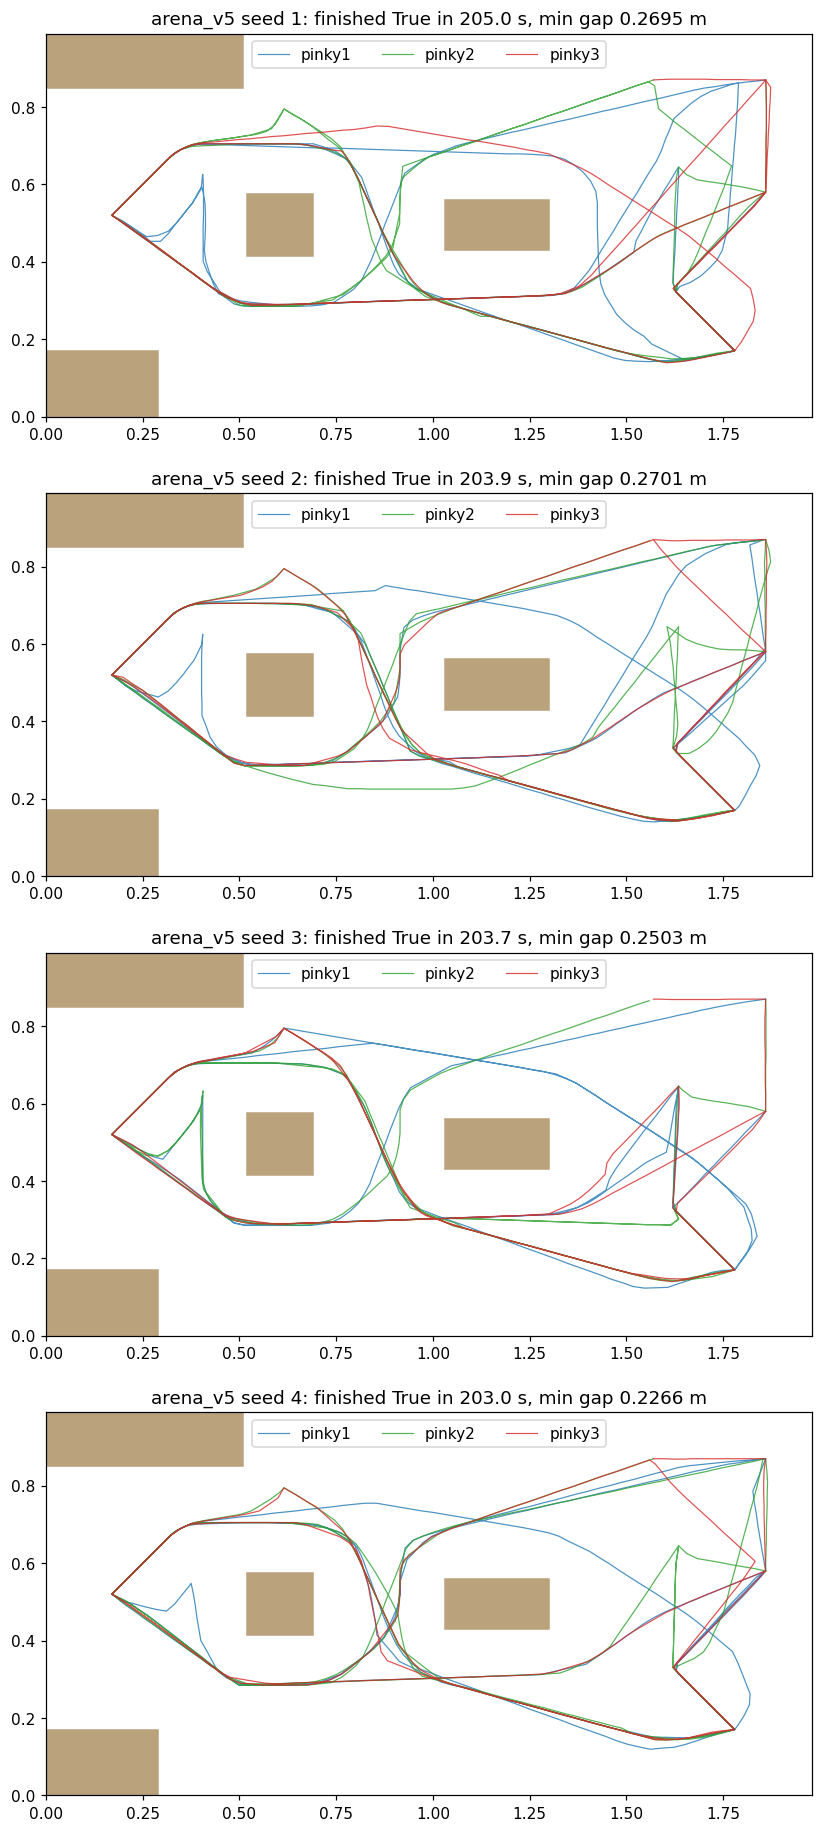
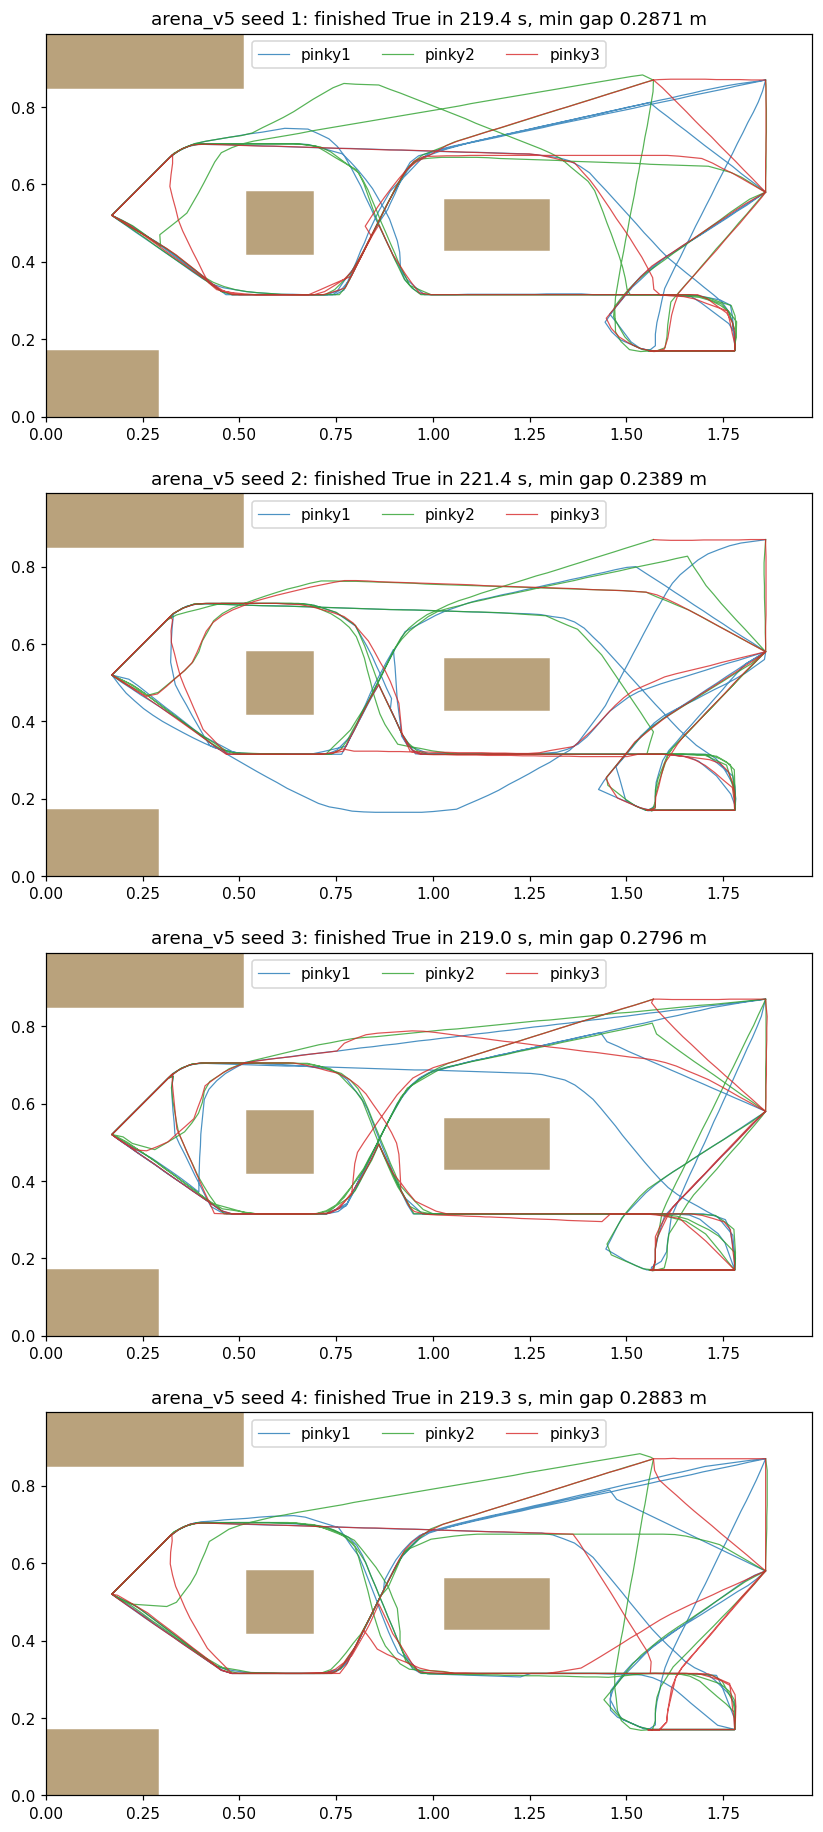
docs: worklog and pictures of the arena_v5 layout; one test named for what it checks

diff --git a/docs/freefloor/arena_v5/draw_layout.py b/docs/freefloor/arena_v5/draw_layout.py
@@ -29,7 +29,7 @@ def dim(p, q, text, off=(0, 0), color="#c0392b", fs=11.5):
 # 놓는 자리 치수 (벽에서)
 dim((0, 0.495), (0.52, 0.495), "52", off=(0.08, 0.035))
 dim((0.605, 0), (0.605, 0.42), "42", off=(-0.06, 0))
-dim((0.69, 0.495), (1.03, 0.495), "34", off=(0, 0.035))
+dim((0.69, 0.575), (1.03, 0.575), "34", off=(0, 0.03))
 dim((1.165, 0), (1.165, 0.43), "43", off=(0.05, 0))
 dim((1.165, 0.56), (1.165, 0.99), "43", off=(0.05, 0))
 dim((0.605, 0.58), (0.605, 0.99), "41", off=(0.06, 0.06))
@@ -47,9 +47,14 @@ for line in fl["fixed_lines"].values():
 for p in fl["parking"]:
     ax.add_patch(plt.Circle((p["x"], p["y"]), 0.083, fc="#7dbb5c", ec="#2e6b1e", alpha=0.45, lw=1.5, zorder=4))
     ax.text(p["x"], p["y"], p["id"], ha="center", va="center", fontsize=10.5, weight="bold", zorder=5)
-ax.text(0.89, 0.88, "북쪽 통로 41-43 cm  (양쪽 방향)", ha="center", fontsize=12, color="#1f6f8b", weight="bold")
-ax.text(0.89, 0.07, "남쪽 통로 42-43 cm  (양쪽 방향)", ha="center", fontsize=12, color="#1f6f8b", weight="bold")
-ax.text(0.86, 0.66, "건너는 통로", ha="center", va="center", fontsize=11, color="#1f6f8b", weight="bold")
+ax.text(0.89, 0.88, "북쪽 통로 41-43 cm  (어느 방향으로든)", ha="center", fontsize=12, color="#1f6f8b", weight="bold")
+ax.text(0.89, 0.07, "남쪽 통로 42-43 cm  (어느 방향으로든)", ha="center", fontsize=12, color="#1f6f8b", weight="bold")
+for line, spots in (fl.get("wait_spots") or {}).items():
+    if line == "outbound_in":
+        x, y = spots[0]
+        ax.add_patch(plt.Circle((x, y), 0.083, fc="none", ec="#8e44ad", lw=1.8, ls="--", zorder=4))
+        ax.text(x, y, "출고 차례\n대기", ha="center", va="center", fontsize=9.5, color="#8e44ad", zorder=5)
+ax.text(0.86, 0.64, "건너는 통로", ha="center", va="center", fontsize=11, color="#1f6f8b", weight="bold")
 ax.text(0.30, 0.30, "출고 앞 마당", ha="center", fontsize=11, color="#555")
 ax.text(1.55, 0.66, "동쪽 마당\n(대기 · 작업)", ha="center", va="center", fontsize=11, color="#555")
 ax.text(-0.075, 0.52, "서쪽 벽\n(로봇팔 3)", ha="center", va="center", fontsize=10.5, rotation=90)

diff --git a/pc/fleet_core/test/test_floor_arena_v5.py b/pc/fleet_core/test/test_floor_arena_v5.py
@@ -432,7 +432,7 @@ def test_a_robot_on_a_wait_spot_holds_no_cell_of_a_dock_line_and_its_body_no_oth
         assert not one & other, (a, b)
 
 
-def test_a_robot_between_the_islands_leaves_three_clear_rows_of_both_passages():
+def test_a_robot_between_the_islands_leaves_three_clear_rows_beside_it_north_and_south():
     radius = max(BODY, LOCKS["release_distance_m"])
     taken = set(disk_cells(FLOOR, *CROSS, radius))
     free = {c for c in FLOOR.clear if not disk_cells(FLOOR, *FLOOR.centre(c), BODY) & taken}

diff --git a/docs/worklog_freefloor_arena_v5_2026-11-11.md b/docs/worklog_freefloor_arena_v5_2026-11-11.md
@@ -1,0 +1,156 @@
+# 작업 기록: 경기장 배치 제안 arena_v5와 대기 자리 (2026-11-11 오후)
+
+브랜치 `feat/arena-v5-open`(PJW-1/roscamp-freefloor). 출발점은 `main` c11d28c다. 사용자 지시는 "자유바닥을 쓰면서
+통로들도 쓸 수 있게 맵을 디자인해 봐라. 핑키들이 기차놀이하는 게 아니라 다양하게 움직였으면 좋겠다. 도킹 직전
+진입 포인트도 없애고 들어가는 방향만 맞으면 된다. 그려서 보여 주면 그렇게 배치하겠다. 시뮬도 띄워서 보여 달라"다.
+
+**결론부터.**
+
+1. 물체 넷의 자리만 바꾼 배치 `arena_v5`를 만들었다. 실물로는 아직 놓지 않았다. 배치도는
+   `docs/freefloor/arena_v5/layout.png`다.
+2. 통로를 고정 선으로 두지 않는다. 고정 선은 도크 앞 0.23 m뿐이고 들어가는 방향만 정한다.
+3. Gazebo를 네 번 돌렸다. 앞의 셋은 실패했고(반대 방향 도킹 1번, 멈춤 2번) 원인을 하나씩 고쳤다. 네 번째가
+   합격이다(주문 8건, 277.9초, 경고 없음). **합격은 1회뿐이다.**
+4. 관제를 두 군데 고쳤다. 차례를 기다리는 로봇이 설 자리를 지도에 적을 수 있게 했고(`wait_spots`), 그 전에
+   서브에이전트가 넣은 "나갈 길을 막는 자리는 건너뛴다"와 "차례 대기도 대기 순환으로 본다"가 그 아래 그물로 남아 있다.
+5. 시간은 지금 배치(v4)보다 조금 느리다(Gazebo 277.9초 대 258.4초, 헤드리스 208–210초 대 196–197초). 사용자는
+   시간보다 안전과 안 막히는 것을 우선하라고 했다.
+
+## 1. 배치
+
+벽 안쪽 1.98 x 0.99 m와 물체 넷은 v4 그대로다. 물체 크기는 v4 라이다 스캔의 바깥 치수다(실제 물체와 1–2 cm
+다를 수 있다). 도크와 대기 자리의 위치도 v4 그대로다.
+
+| 물체 | 크기 | 자리 |
+|---|---|---|
+| 물체 1 | 17 x 16 cm | 섬. 서쪽 벽에서 52 cm, 남쪽 벽에서 42 cm |
+| 물체 3 | 27 x 13 cm (동서로 길게) | 섬. 서쪽 벽에서 103 cm, 남쪽 벽에서 43 cm |
+| 물체 4 | 51 x 14 cm | 북서쪽 구석에 붙임(북쪽 벽을 따라) |
+| 물체 2 | 29 x 17 cm | 남서쪽 구석에 붙임(남쪽 벽을 따라) |
+
+- 섬의 남쪽·북쪽 통로는 41–43 cm, 두 섬 사이 건너는 통로는 34 cm다. 가장 좁은 곳은 물체 4의 모서리와 물체 1
+  사이 27 cm 한 곳이다(길이 17 cm쯤, 한 대 폭).
+- 빈 칸(로봇 중심이 설 수 있는 3 cm 칸)은 1172개로 한 덩어리다. v4는 964개이고 동쪽과 서쪽이 좁은 선으로만
+  이어졌다.
+- 큰 물체 둘을 구석에 둔 이유: 폭이 99 cm라 가운데에 둔 물체는 양옆 통로를 좁힌다. 출고 앞 마당(52 cm)과 동쪽
+  마당(68 cm) 사이 가운데 줄에는 75 cm쯤만 놓을 수 있어서, 51 cm짜리를 섬으로 쓰면 건너는 통로가 없어진다.
+  동쪽 벽에는 대기 자리와 작업 도크가 있다.
+- 통로 41–43 cm에서 두 대가 나란히 지나가는 것은 **실제로는 거의 일어나지 않는다.** 한 대가 달릴 때 잠그는 폭이
+  18 cm(칸으로 올림하면 21–24 cm)이고 꺾는 자리는 지름 22 cm 원이라, 둘 다 벽에 붙어 달려야만 겹치지 않는다.
+  경로는 그렇게 계획되지 않는다(우측통행 규칙 없음).
+
+### 사용자의 구조도(11-10)와 비교
+
+구조도는 지금 배치를 180도 돌린 자리 배치이고 통로가 16–33 cm라 모두 한 줄이다. 그대로 두면 한 방향 고리가
+된다. 구조도의 긴 진열대 둘(60 x 18 cm)은 가진 물체로는 하나만 만들 수 있다.
+
+## 2. 도크 앞 선
+
+| 변형 | 선 | 결과 |
+|---|---|---|
+| 0.14 m | 작업: 북서쪽에서, 출고: 북쪽에서 | Gazebo 1차. 남쪽에서 올라온 로봇이 도크 옆을 지나다 도착 처리됨(도착 허용 0.15 m). 반대 방향으로 도킹 |
+| 0.23 m, 출고는 동쪽에서 | | 헤드리스에서 세 대가 다시 한 줄 고리로 돈다. Gazebo 2차에서 멈춤(3절) |
+| 0.23 m, 출고는 북동쪽에서 45도 | | 길이 갈린다(남쪽 통로와 건너는 통로가 같은 거리) |
+| 위 + 작업은 서쪽에서 남쪽 벽을 따라 | 지금 | 북서쪽 45도 선은 P-3에서 0.26 m라 그 자리에 선 로봇이 선 칸을 쥘 수 있었다 |
+
+- 관제는 방향을 강제하지 않는다. 도크 0.15 m 안에서 다시 계획하면 선 없이 도착한다
+  (`controller.py`의 `math.dist(start, leg.goal_xy) <= arrival_tolerance_m and not out_line` 분기). 선 길이와
+  방향으로 그런 길이 나오지 않게 했을 뿐이다. 헤드리스 두 실행에서 모든 도킹이 선을 따라 들어왔는지 보는 시험이 있다.
+- 실제 도킹에 맞는 방향(마커 위치, 팔이 닿는 방향)은 모른다. 지도에서 한 줄을 바꾸면 된다. **사용자 확인 필요.**
+
+## 3. Gazebo 네 번
+
+도메인 57, 핑키 3대, 주문 8건(20초마다), `fleet_params_real_arena`, 0.15 m/s. 한 번에 하나만 돌렸고 그동안 다른
+시험은 돌리지 않았다.
+
+| 실행 | 코드 | 결과 |
+|---|---|---|
+| 1차 | 297f4b2 이전(선 0.14 m) | 8건 출고 243.1초, **판정 불합격**: 칸을 로봇에서 0.07 m에서 놓음 6번(반대 방향 도킹 뒤, 위치 추정 오차 4 cm와 겹침) |
+| 2차 | 선 0.23 m, 출고 동쪽 진입 | **멈춤**(주문 7번째, 110초 넘게). 중단함 |
+| 3차 | 479dad7(출고 북동쪽 진입 + 서브에이전트 수정) | **멈춤**(주문 1번째 뒤, 100초 넘게). 중단함 |
+| 4차 | 5d8355e(대기 자리를 지도에 적음) | **합격**: 8/8, 277.9초, 최소 거리 0.242 m, 잠근 칸 밖 표본 0/22539, 일찍 놓음 0, WARN·ERROR 0 |
+
+- 2차의 멈춤: 출고를 마친 로봇이 나가려는데 출고 차례를 기다리는 두 대가 서쪽 구역의 두 출구(남쪽·북쪽 통로
+  입구)에 서 있었다. 나가는 로봇의 몸이 도크 선의 칸에 걸쳐 있어 차례도 오지 않았다. 대기 순환이 감지되지 않았다
+  (차례를 기다리는 로봇은 칸을 기다리지 않는다).
+- 3차의 멈춤: 작업을 마친 로봇이 나가려는데 작업 차례를 기다리는 로봇이 남쪽 통로 동쪽 입구에, 다른 한 대가 P-3에
+  서 있어 둘 사이로 빠져나갈 폭이 없었다. `DEADLOCK_DETECTED`가 6번 났지만 비켜 서기는 시작되지 않았다. 나가는
+  로봇이 다른 길을 다시 찾을 때마다 순환이 잠깐 사라져 5초 시계가 처음부터 다시 돌았다(서브에이전트 수정의
+  `_may_get_by`가 만든 부작용으로 본다. 재현 시험은 없다).
+- 두 멈춤의 공통 원인: 차례를 기다리는 로봇은 "선 시작에서 0.3 m 넘게 떨어진 가장 가까운 빈 자리"에 서는데, 통로가
+  모두 빈 바닥이면 그 자리가 통로 입구다. v4에서는 한 방향 선이 통로 입구를 차지해서 드러나지 않았다.
+- 위치 추정 오차(놓은 칸 기록의 보고 거리와 실제 거리 차이)는 1차에서 서쪽 구역 중앙값 1.7 cm, 95% 4.1 cm,
+  최대 5.5 cm였다(v4는 0.6 / 1.9 / 3.3 cm). 4차에서는 다시 재지 않았다. 4차의 가장 가까운 놓음은 0.082 m로
+  판정 기준(0.08 m)에 가깝다.
+
+## 4. 관제 수정
+
+### 4.1 서브에이전트: 나갈 길을 막는 대기 자리, 차례 대기의 순환 (66dd298)
+
+Opus, effort medium, 격리 worktree, 브랜치 `fix/dock-wait-exits`.
+
+- `_plan_wait`: 후보 자리에 서면(다른 대기 로봇의 자리와 함께) 도크에서 주차 자리·다른 도크 선 시작으로 가는 길이
+  끊기는 자리는 건너뛴다(빈 칸 위 너비 우선 탐색). 그런 자리뿐이면 예전대로 고른다.
+- `_check_deadlock`: 대기 자리에 선 차례 대기 로봇은 그 선을 쥐었거나 차례를 받은 로봇을 기다리는 것으로 본다.
+  차례 대기 로봇이 먼저 비켜 서고, 비켜 섰다 돌아온 로봇은 줄에 선 시각을 지킨다.
+- 내가 확인한 것: 재현 시험 4개가 수정 전 `controller.py`에서 실패하고 수정 후 통과한다. `test_floor_retreat.py`의
+  기준값은 그대로다. 서브에이전트가 보고한 fleet_core 1703개 통과는 그 커밋에서의 값이고 내가 다시 돌린 것은
+  5절이다.
+- 이 수정은 3차의 멈춤을 막지 못했다(대기 로봇의 자리만 보고 주차된 로봇은 보지 않는다).
+
+### 4.2 대기 자리를 지도에 적는다 (5d8355e)
+
+- 바닥 지도의 새 키 `wait_spots: {접근선: [[x, y], ...]}`. 그 선의 차례를 기다리는 로봇은 적은 차례대로 첫 빈
+  자리로 간다. 이미 적은 자리에 서 있으면 그대로 선다. 적은 자리가 모두 찼으면 예전 탐색으로 넘어간다. 키가 없는
+  지도는 달라지지 않는다.
+- arena_v5: 작업 도크는 대기 자리 셋(P-3, P-2, P-1), 출고 도크는 두 섬 사이 (0.86, 0.495) 다음에 대기 자리 셋.
+  두 섬 사이에 선 로봇 옆으로 남쪽·북쪽에 빈 칸이 세 줄씩 남는다(한 대가 지난다).
+- 시험을 먼저 썼고 수정 전에 실패하는 것을 확인했다(지도 읽기 8개, v5 5개).
+
+### 4.3 Codex 리뷰 (세 번, 모두 직접 확인)
+
+고친 것: v5 시험 이름과 설명이 실제로 보는 것과 맞게(612c433), 주차 로봇과 선 전체를 비교, 도크에 선을 따라
+들어오는지 보는 시험 추가.
+
+남긴 것(확인한 한계):
+
+- 너비 우선 탐색이 대각선으로 모서리를 넘는다. 계획기는 넘지 않는다(`planner.py`의 no corner cutting). 길이
+  끊겼는데 이어졌다고 볼 수 있다. v5는 대기 자리를 지도에 적어서 이 탐색을 쓰지 않는다.
+- 좁은 선의 도크(빈 칸 밖)에서는 나갈 길 검사가 꺼진다.
+- 차례 대기 순환: 먼저 줄 선 대기 로봇 때문에 못 들어가는 뒤 로봇의 관계는 그래프에 없다. 미리 차례를 받고 선 앞에
+  선 로봇은 빠진다. 3절의 시계 초기화도 여기다.
+- 지도에 적은 대기 자리: 다른 로봇이 주차하러 가는 중인 자리를 고를 수 있다(가는 중인 주차 목적지는 예약이 아니다).
+  두 로봇이 같은 자리의 0.15 m 안에 서 있으면 둘 다 그대로 선다.
+- 도크 0.15 m 안에서 다시 계획하면 선 없이 도착한다(2절).
+
+## 5. 시험
+
+- 최종 트리(5d8355e에 시험 이름 하나와 문서를 더한 것)에서 내가 돌린 것은 아래 표다.
+- 헤드리스(핑키 3대, 주문 8건, 위치 잡음 0.03 m): arena_v5 씨앗 1–4 모두 완주, 207.7–210.0초, `DEADLOCK_DETECTED`
+  4회 중 1번, 못 푼 것 0, 최소 간격 0.239–0.288 m. arena_v4는 196.1–197.0초(씨앗 1, 2).
+- 대기 자리를 적기 전(출고 북동쪽 진입): 씨앗 1–4 완주, 191.4–193.3초, `DEADLOCK_DETECTED` 0–2번.
+
+| 묶음 | 결과 |
+|---|---|
+| `test_floor_arena_v5.py` | 30 통과 |
+| `test_floor_retreat.py`, `test_floor_multi.py` | 52 통과(기준값 그대로) |
+| `test_floor_arena_v4.py`, `test_shipped_maps.py`, `test_release_floor.py` | 통과(레인 지도 고친 뒤 뒤의 둘 65 통과, v4 파일은 그 전 실행에서 통과) |
+| `test_floor_map.py` | 94 통과 |
+| `fleet_gz_sim` `test_arena_v5_site.py` | 7 통과 |
+| fleet_core 전체(3묶음) | 1719 통과, 실패 0 (532 + 676 + 511) |
+| fleet_gz_sim 전체 | 410 통과 |
+| fake_robots 전체 | 527 통과 |
+
+돌리지 않은 것: fleet_manager, pinky_fsm, pinky_nav_config 패키지 시험(이번에 그 코드를 바꾸지 않았다).
+
+## 6. 하지 않은 것, 남은 것
+
+- **실물 배치와 실물 주행은 하지 않았다.** 물체를 옮기면 로봇용 지도를 다시 스캔해야 한다.
+- Gazebo 합격은 1회다. 2대 시나리오, 느린 작업 시나리오, 무작위 주문 시나리오는 v5로 만들지도 돌리지도 않았다.
+- 도크 시간창(`floor_dock_schedule`)을 v5에서 켜면 나빠진다(대기 자리를 적기 전 헤드리스 4회: 2회만 완주,
+  240–257초). 대기 자리를 적은 뒤에는 다시 재지 않았다.
+- ETA 속도(`eta_speed_mps` 0.2)가 실제 주행 속도(0.15 m/s)와 다르다. 고치지 않았다.
+- 우측통행(통로에서 경로를 한쪽에 붙이기)은 없다. 통로에서 두 대가 나란히 지나가게 하려면 필요하다.
+- 로봇단 회피와 관제의 역할 나누기(로봇이 "회피 중"을 보고하면 관제가 그 둘레를 넓게 잠그고 다른 로봇을 돌린다)는
+  사용자와 이야기만 했다. 로봇 쪽 계약이 필요하다.
+- `main`은 건드리지 않았다. 팀 저장소에는 푸시하지 않았다.
